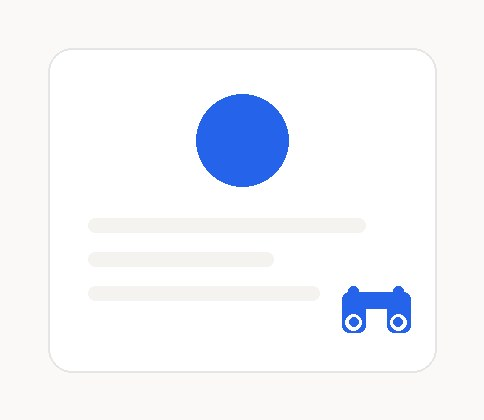
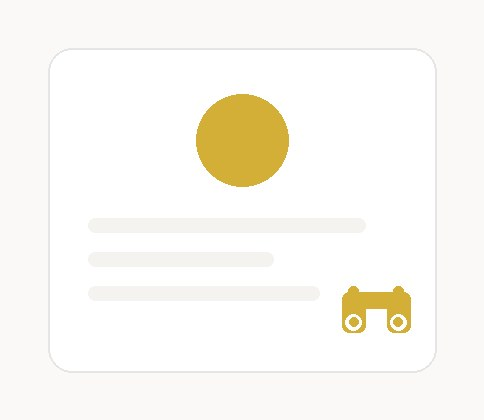
intern salary wage and color change

Changed region(s): [[0.4029, 0.2167, 0.6198, 0.4643], [0.6818, 0.681, 0.8678, 0.8048]]

diff --git a/jobs/templates/jobs/job_search.html b/jobs/templates/jobs/job_search.html
@@ -19,7 +19,15 @@
           <input class="form-control" id="location" name="location" value="{{ filters.location }}">
         </div>
         <div class="mb-3">
-          <label class="form-label" for="min_salary">Minimum Salary (Yearly)</label>
+          <label class="form-label" for="employment_type">Employment type</label>
+          <select class="form-select" id="employment_type" name="employment_type">
+            <option value="">Any</option>
+            <option value="intern" {% if filters.employment_type == 'intern' %}selected{% endif %}>Internship</option>
+            <option value="full_time" {% if filters.employment_type == 'full_time' %}selected{% endif %}>Full-time</option>
+          </select>
+        </div>
+        <div class="mb-3">
+          <label class="form-label" for="min_salary">Minimum Pay</label>
           <input class="form-control" type="number" min="0" id="min_salary" name="min_salary" value="{{ filters.min_salary }}">
         </div>
         <div class="mb-3">
@@ -59,12 +67,17 @@
               <div class="text-muted small">{{ job.company }}</div>
               <h3 class="mb-1">{{ job.title }}</h3>
               <div class="mb-2">
+                <span class="badge text-bg-light border">{{ job.get_employment_type_display }}</span>
                 <span class="badge text-bg-light border">{{ job.location }}</span>
                 {% if job.remote_work %}<span class="badge text-bg-light border">Remote</span>{% endif %}
                 {% if job.visa_sponsorship %}<span class="badge text-bg-light border">Visa sponsorship</span>{% endif %}
               </div>
             </div>
-            {% if job.salary %}<div class="fw-semibold">${{ job.salary }}</div>{% endif %}
+            {% if job.salary %}
+              <div class="fw-semibold">
+                {% if job.employment_type == 'intern' %}${{ job.salary }}/hr{% else %}${{ job.salary }}/yr{% endif %}
+              </div>
+            {% endif %}
           </div>
           {% if job.description %}<p>{{ job.description }}</p>{% endif %}
           {% if listing.skills %}

diff --git a/seekr/static/css/style.css b/seekr/static/css/style.css
@@ -11,15 +11,16 @@ body {
 }
 
 .btn-primary {
-  background-color: #B8860B;
-  border-color: #B8860B;
+  background-color: #D4AF37;
+  border-color: #D4AF37;
   color: #1C1917;
+  font-weight: 600;
 }
 
 .btn-primary:hover,
 .btn-primary:focus {
-  background-color: #96700A;
-  border-color: #96700A;
+  background-color: #B8952E;
+  border-color: #B8952E;
   color: #1C1917;
 }
 
@@ -56,7 +57,7 @@ body {
 }
 
 .ms-footer a:hover {
-  color: #B8860B;
+  color: #D4AF37;
   text-decoration: none;
 }
 
@@ -66,7 +67,7 @@ body {
 }
 
 .ms-footer-bottom a {
-  color: #B8860B;
+  color: #D4AF37;
   text-decoration: none;
 }
 

diff --git a/jobs/management/commands/seed_jobs.py b/jobs/management/commands/seed_jobs.py
@@ -6,38 +6,66 @@ from jobs.models import Job
 ROLE_INFO = {
     'Software Engineering Intern': {
         'skills': 'Python, Java, JavaScript, React, SQL, Git, Data Structures, Algorithms',
-        'salary': 100000,
-        'description': 'Ship real features alongside our engineering team over a summer internship.',
+        'employment_type': Job.EmploymentType.INTERN,
+        'salary': 45,
+        'descriptions': [
+            'Ship real features alongside our web platform team over a 10-12 week summer internship.',
+            'Pair with senior engineers on our internal tools team to build and test new features.',
+            'Join our mobile team for the summer to design, build, and ship a customer-facing feature.',
+        ],
     },
     'Quantitative Developer Intern': {
         'skills': 'Python, C++, Statistics, Probability, Linear Algebra, Market Microstructure',
-        'salary': 130000,
-        'description': 'Build and backtest trading systems alongside quantitative researchers and traders.',
+        'employment_type': Job.EmploymentType.INTERN,
+        'salary': 60,
+        'descriptions': [
+            'Build and backtest trading systems alongside quantitative researchers and traders.',
+            'Prototype pricing models and research tooling used directly by our trading desks.',
+            'Optimize low-latency trading infrastructure alongside our core platform team.',
+        ],
     },
     'Trading Intern': {
-        'skills': 'Statistics, Probability, Excel/VBA, Market Microstructure, Communication',
-        'salary': 120000,
-        'description': 'Sit with a trading desk to learn market-making and risk management firsthand.',
+        'skills': 'Statistics, Probability, Excel, Market Microstructure, Communication',
+        'employment_type': Job.EmploymentType.INTERN,
+        'salary': 55,
+        'descriptions': [
+            "Sit with a trading desk to learn market-making and risk management firsthand.",
+            "Support a trading desk's daily flow while learning execution and risk controls.",
+        ],
     },
     'Machine Learning Engineering Intern': {
         'skills': 'Python, Machine Learning, Statistics, SQL, PyTorch',
-        'salary': 110000,
-        'description': 'Train and ship machine learning models that power our core product.',
+        'employment_type': Job.EmploymentType.INTERN,
+        'salary': 50,
+        'descriptions': [
+            'Train and ship machine learning models that power our recommendation system.',
+            'Build data pipelines and evaluation tooling for our applied ML team.',
+        ],
     },
     'Product Management Intern': {
         'skills': 'Product Strategy, Data Analysis, Communication, Agile, SQL',
-        'salary': 95000,
-        'description': 'Partner with engineering and design to scope and ship a real product feature.',
+        'employment_type': Job.EmploymentType.INTERN,
+        'salary': 40,
+        'descriptions': [
+            'Partner with engineering and design to scope and ship a real product feature.',
+            'Run user research and help define requirements for a new product initiative.',
+        ],
     },
     'Software Engineer, New Grad': {
         'skills': 'Python, Java, JavaScript, React, SQL, Git, AWS, Docker, Data Structures, Algorithms',
+        'employment_type': Job.EmploymentType.FULL_TIME,
         'salary': 140000,
-        'description': 'Join a product engineering team as a full-time software engineer.',
+        'descriptions': [
+            'Join a product engineering team as a full-time software engineer.',
+        ],
     },
     'Associate Product Manager': {
         'skills': 'Product Strategy, Data Analysis, Communication, Agile, Roadmapping',
+        'employment_type': Job.EmploymentType.FULL_TIME,
         'salary': 120000,
-        'description': 'Own a piece of the roadmap and work cross-functionally to ship it.',
+        'descriptions': [
+            'Own a piece of the roadmap and work cross-functionally to ship it.',
+        ],
     },
 }
 
@@ -108,13 +136,14 @@ class Command(BaseCommand):
             Job.objects.filter(company=company['name']).delete()
             for title, count in company['postings']:
                 info = ROLE_INFO[title]
-                for _ in range(count):
+                for i in range(count):
                     Job.objects.create(
                         title=title,
                         company=company['name'],
                         location=company['location'],
                         skills_needed=info['skills'],
-                        description=info['description'],
+                        description=info['descriptions'][i % len(info['descriptions'])],
+                        employment_type=info['employment_type'],
                         salary=info['salary'],
                         remote_work=company['remote_work'],
                         visa_sponsorship=company['visa_sponsorship'],

diff --git a/jobs/models.py b/jobs/models.py
@@ -8,7 +8,7 @@ from profiles.models import Profile
 
 SKILL_OPTIONS = [
     'Agile', 'Algorithms', 'AWS', 'Communication', 'C++', 'Data Analysis',
-    'Data Structures', 'Docker', 'Excel/VBA', 'Git', 'Java', 'JavaScript',
+    'Data Structures', 'Docker', 'Excel', 'Git', 'Java', 'JavaScript',
     'Linear Algebra', 'Machine Learning', 'Market Microstructure', 'Probability',
     'Product Strategy', 'PyTorch', 'Python', 'React', 'Roadmapping', 'SQL',
     'Statistics',
@@ -27,12 +27,17 @@ def matching_skills(wanted_text, have_text):
 
 
 class Job(models.Model):
+    class EmploymentType(models.TextChoices):
+        INTERN = 'intern', 'Internship'
+        FULL_TIME = 'full_time', 'Full-time'
+
     title = models.CharField(max_length=255)
     company = models.CharField(max_length=255)
     location = models.CharField(max_length=200, blank=True)
     skills_needed = models.TextField(blank=True, help_text='Separate your skills with commas')
     description = models.TextField(blank=True)
-    salary = models.PositiveIntegerField(null=True, blank=True, help_text='Yearly salary')
+    employment_type = models.CharField(max_length=10, choices=EmploymentType.choices, default=EmploymentType.FULL_TIME)
+    salary = models.PositiveIntegerField(null=True, blank=True, help_text='Hourly wage for internships, yearly salary for full-time roles')
 
     remote_work = models.BooleanField(default=False)
     visa_sponsorship = models.BooleanField(default=False)

diff --git a/jobs/migrations/0008_job_employment_type_alter_job_salary.py b/jobs/migrations/0008_job_employment_type_alter_job_salary.py
@@ -1,0 +1,31 @@
+# Generated by Django 5.2.17 on 2026-09-28 02:50
+
+from django.db import migrations, models
+
+
+class Migration(migrations.Migration):
+
+    dependencies = [
+        ("jobs", "0007_notification_savedsearch"),
+    ]
+
+    operations = [
+        migrations.AddField(
+            model_name="job",
+            name="employment_type",
+            field=models.CharField(
+                choices=[("intern", "Internship"), ("full_time", "Full-time")],
+                default="full_time",
+                max_length=10,
+            ),
+        ),
+        migrations.AlterField(
+            model_name="job",
+            name="salary",
+            field=models.PositiveIntegerField(
+                blank=True,
+                help_text="Hourly wage for internships, yearly salary for full-time roles",
+                null=True,
+            ),
+        ),
+    ]

diff --git a/jobs/views.py b/jobs/views.py
@@ -38,6 +38,7 @@ def index(request):
     place_desired = request.GET.get('location', '').strip()
     pay_floor = request.GET.get('min_salary', '').strip()
     work_env = request.GET.get('work_type', '')
+    employment_type = request.GET.get('employment_type', '')
 
     if title_search:
         job_matches = job_matches.filter(title__icontains=title_search)
@@ -48,6 +49,8 @@ def index(request):
         job_matches = job_matches.filter(skill_filter)
     if place_desired:
         job_matches = job_matches.filter(location__icontains=place_desired)
+    if employment_type in Job.EmploymentType.values:
+        job_matches = job_matches.filter(employment_type=employment_type)
     if pay_floor.isdigit():
         job_matches = job_matches.filter(salary__gte=int(pay_floor))
     if work_env == 'remote':
